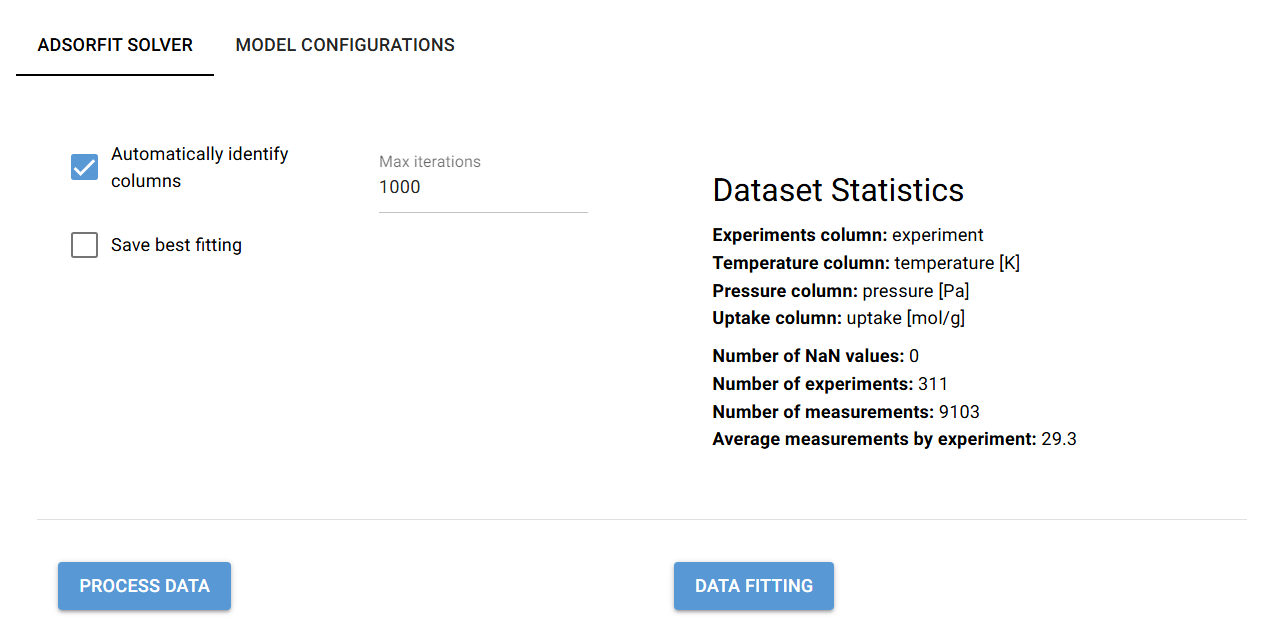
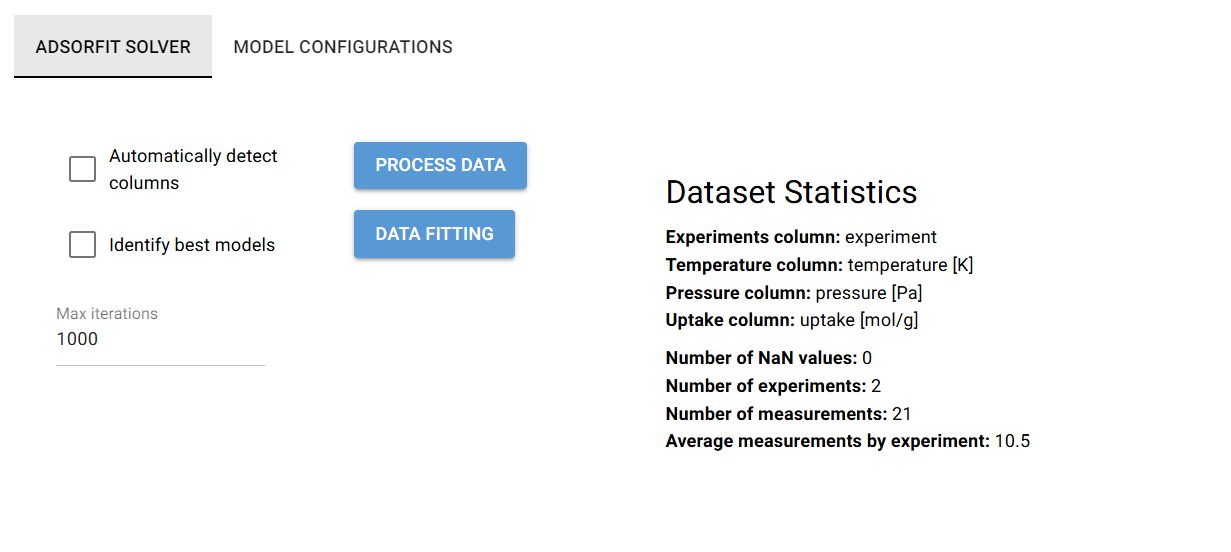
updated README, more compact solver tab

diff --git a/ADSORFIT/services/adsorption_model_fitting.py b/ADSORFIT/services/adsorption_model_fitting.py
@@ -32,25 +32,14 @@ with ui.tab_panels(tabs, value=tab_main) as panels:
     with ui.tab_panel(tab_main).classes('w-full justify-between'):
         with ui.row().classes('w-full no-wrap justify-between'):           
             with ui.column().classes('w-full p-4'):
-                identify_cols = ui.checkbox('Automatically detect columns')
-                best_models = ui.checkbox('Identify best models')                
+                identify_cols = ui.checkbox('Automatically detect columns') 
+                best_models = ui.checkbox('Identify best models')
+                max_iterations = ui.number("Max iterations", value=1000)               
+                      
             with ui.column().classes('w-full p-4'):
-                max_iterations = ui.number("Max iterations", value=1000)
-            with ui.column().classes('w-full p-4'):
-                stats = ui.markdown(content="Statistics will be displayed here.").style(
-                    'padding: 10px; width: 400px; text-align: left;')                           
-
-        ui.separator()
-
-        # [BUTTONS ROW]
-        #----------------------------------------------------------------------
-        # define two buttons to load and process the data and to start the data fitting
-        with ui.row().classes('w-full no-wrap justify-between'):
-            with ui.column().classes('w-full p-4'):                
                 ui.button(
                     'Process data', on_click=lambda : [processor.preprocess_dataset(identify_cols.value),
-                                                       stats.set_content(processor.stats)]) 
-            with ui.column().classes('w-full p-4'):     
+                                                       stats.set_content(processor.stats)])           
                 data_fitting_button = ui.button(
                     'Data fitting', on_click=lambda : [solver.start_data_fitting_thread(
                                                        processor.processed_data,
@@ -59,8 +48,11 @@ with ui.tab_panels(tabs, value=tab_main) as panels:
                                                        processor.uptake_col,
                                                        models_widgets.model_states,
                                                        max_iterations.value,
-                                                       best_models.value)])                
-
+                                                       best_models.value)])      
+            with ui.column().classes('w-full p-4'):
+                stats = ui.markdown(content="Statistics will be displayed here.").style(
+                    'padding: 10px; width: 400px; text-align: left;')  
+                       
         # [PROGRESS BAR]
         #----------------------------------------------------------------------
         with ui.row().classes('w-full no-wrap justify-between'):              

diff --git a/ADSORFIT/commons/constants.py b/ADSORFIT/commons/constants.py
@@ -1,10 +1,9 @@
-import json
 from os.path import join, abspath 
 
 # [PATHS]
 ###############################################################################
-ROOT_DIR = abspath(join(__file__, "../../.."))
-PROJECT_DIR = abspath(join(__file__, "../.."))
+ROOT_DIR = abspath(join(__file__, "././."))
+PROJECT_DIR = join(ROOT_DIR, 'ADSORFIT')
 DATA_PATH = join(PROJECT_DIR, 'resources')
 BEST_FIT_PATH = join(DATA_PATH, 'best fit')
 LOGS_PATH = join(PROJECT_DIR, 'resources', 'logs')
@@ -12,6 +11,4 @@ LOGS_PATH = join(PROJECT_DIR, 'resources', 'logs')
 # [FILENAMES]
 ###############################################################################
 DATASET_PATH = join(DATA_PATH, 'adsorption_data.csv') 
-VALIDATION_PATH = join(DATA_PATH, 'adsorption_model_fit.csv')
-
-
+RESULTS_PATH = join(DATA_PATH, 'adsorption_model_fit.csv')

diff --git a/ADSORFIT/commons/utils/datamaker/datasets.py b/ADSORFIT/commons/utils/datamaker/datasets.py
@@ -5,7 +5,7 @@ import pandas as pd
 from difflib import get_close_matches
 from nicegui import ui
 
-from ADSORFIT.commons.constants import VALIDATION_PATH, DATASET_PATH, BEST_FIT_PATH
+from ADSORFIT.commons.constants import DATASET_PATH, BEST_FIT_PATH
 from ADSORFIT.commons.logger import logger
 
 
@@ -17,8 +17,7 @@ class AdsorptionDataProcessing:
         self.dataset = pd.read_csv(DATASET_PATH, sep =';', encoding='utf-8')  
         self.processed_data = pd.DataFrame() 
         self.stats = None   
-        self.processing_done = False
-         
+        self.processing_done = False         
         self.experiment_col = 'experiment'
         self.temperature_col = 'temperature [K]'  
         self.pressure_col = 'pressure [Pa]' 

diff --git a/ADSORFIT/commons/utils/app/widgets.py b/ADSORFIT/commons/utils/app/widgets.py
@@ -2,8 +2,8 @@ from nicegui import ui
 import copy
 
 from ADSORFIT.commons.utils.app.threads import SolverThread
-from ADSORFIT.commons.constants import PROJECT_DIR, VALIDATION_PATH, DATASET_PATH, BEST_FIT_PATH
 from ADSORFIT.commons.logger import logger
+
 
 # Progress bar widget for tracking the progress of operations in the GUI
 ###############################################################################

diff --git a/ADSORFIT/commons/logger.py b/ADSORFIT/commons/logger.py
@@ -53,7 +53,6 @@ LOG_CONFIG =  {
     },    
 }
 
-
 # override logger configuration and load root logger
 ###############################################################################
 logging.config.dictConfig(LOG_CONFIG)

diff --git a/README.md b/README.md
@@ -1,10 +1,10 @@
 # ADSORFIT: Automated Adsorption Model Fitting
 
 ## 1. Project Overview
-ADSORFIT is a powerful tool designed to simplify and enhance adsorption modeling for researchers. It automates the fitting of theoretical adsorption models to experimental isotherm data, enabling accurate extraction of key adsorption parameters such as adsorption constants and saturation uptakes. The core functionality focuses on minimizing the Least Squares Sum (LSS) discrepancy between observed data and model-predicted uptakes. This ensures that the derived model parameters reliably represent the true adsorption behavior under the given experimental conditions. ADSORFIT features an intuitive, user-friendly interface built with NiceGUI, making advanced adsorption modeling accessible to users of all experience levels.
+ADSORFIT is a powerful yet simple tool designed to facilitate adsorption modeling for researchers. It automates experimental data fitting using theoretical adsorption models, enabling accurate extraction of adsorption constants and saturation uptakes from your adsorption isotherms. The core functionality revolves around minimizing the Least Squares Sum (LSS) discrepancy between observed data and model-predicted uptakes. This ensures that the derived model parameters reliably represent the true adsorption behavior under the given experimental conditions. To make things even easier, ADSORFIT features an intuitive, user-friendly interface built with NiceGUI, making it accessible to users of all experience levels.
 
 ## 2. Installation 
-The installation process on Windows has been designed for simplicity and ease of use. To begin, simply run *start_on_windows.bat.* On its first execution, the installation procedure will automatically start with minimal user input required. The script will check if either Anaconda or Miniconda is installed on your system. If neither is found, it will automatically download and install the latest Miniconda release from https://docs.anaconda.com/miniconda/. After setting up Anaconda/Miniconda, the installation script will proceed with the installation of all necessary Python dependencies. If you'd prefer to handle the installation process separately, you can run the standalone installer by executing *setup/install_on_windows.bat*.  
+The installation process on Windows has been designed to be fully automated. To begin, simply run *start_on_windows.bat.* On its first execution, the installation procedure will execute with minimal user input required. The script will check if either Anaconda or Miniconda is installed and can be accessed from your system path. If neither is found, it will automatically download and install the latest Miniconda release from https://docs.anaconda.com/miniconda/. Following this step, the script will proceed with the installation of all necessary Python dependencies. Should you prefer to handle the installation process separately, you can run the standalone installer by running *setup/install_on_windows.bat*.  
 
 **Important:** After installation, if the project folder is moved or its path is changed, the application will no longer function correctly. To fix this, you can either:
 
@@ -16,37 +16,39 @@ The installation process on Windows has been designed for simplicity and ease of
     `pip install -e . --use-pep517` 
 
 ## 3. How to use
-On Windows, run *start_on_windows.bat* to launch the main navigation menu and browse through the various options. Alternatively, you can launch the main app file running *python ADSORFIT/commons/main.py*. Please note that some antivirus software, such as Avast, may flag or quarantine python.exe when called by the .bat file. If you encounter unusual behavior, consider adding an exception for your Anaconda or Miniconda environments in your antivirus settings.
-
-**Environmental variables** are stored in *resources/variables/.env*. For security reasons, this file is typically not uploaded to GitHub. Instead, you must create this file manually by copying the template from *resources/templates/.env* and placing it in the *resources/variables* directory.
-
-**NICEGUI_PORT** – Specifies the port on which the NiceGUI application runs. The default is 8080
-
-**NICEGUI_HOST** – Defines the host address for the NiceGUI server. (0.0.0.0 allows the application to be accessible from any network interface).
+On Windows, run *start_on_windows.bat* to launch the main navigation menu and browse through the various options. Please note that some antivirus software, such as Avast, may flag or quarantine python.exe when called by the .bat file. If you encounter unusual behavior, consider adding an exception for your Anaconda or Miniconda environments in your antivirus settings.
 
 ### 3.1 Navigation menu
 
-**1) Run ADSORFIT UI:** Launch ADSORFIT to access the main user interface, which is organized into two distinct tabs. The first tab allows users to perform essential computational tasks, such as fitting adsorption models to isotherm data and preprocessing datasets. The second tab provides an intuitive interface for reviewing and adjusting critical adsorption model parameters. Users can specify the maximum number of iterations for data fitting and choose whether to automatically infer column content based on their names. Additionally, users can opt to save multiple CSV files, where the best model is selected and releated results are displayed. Below are snapshots illustrating the layout and functionality of main UI:
+**1) Run ADSORFIT UI:** Launch ADSORFIT to access the main user interface, which is organized into two distinct tabs. The first tab allows users to perform essential computational tasks, such as fitting adsorption models to isotherm data and preprocessing datasets. The second tab provides an intuitive interface for reviewing and adjusting critical adsorption model parameters. Users can specify the maximum number of iterations for data fitting and choose whether to automatically infer columns content based on their header. Additionally, it is possible to save multiple CSV files, each of them reporting the best results for a given model. 
 
 ![Solver UI snapshot](ADSORFIT/commons/assets/solver_UI.png)
 
 ![Models UI snapshot](ADSORFIT/commons/assets/models_UI.png)
 
-**2) Setup and Maintenance:** execute optional commands such as *Install project into environment* to run the developer model project installation, *update project* to pull the last updates from github, and *remove logs* to remove all logs saved in *resources/logs*. 
+**2) Setup and Maintenance:** execute optional commands such as *Install project into environment* to reinstall the project within your environment, *update project* to pull the last updates from github, and *remove logs* to remove all logs saved in *resources/logs*. 
 
 **3) Exit:** close the program immediately 
 
 ### 3.2 Resources
-This folder stores both the source data and the results. The adsorption data for fitting must be provided as a CSV file named *adsorption_data.csv*. If automatic column name detection is disabled, the file must include the following columns with these exact names and units: *experiment*, *temperature [K]*, *pressure [Pa]*, and *uptake [mol/g]*. A template of the expected CSV format is available at *resources/templates/adsorption_data.csv*. If the option to automatically detect columns is selected, ADSORFIT will identify target columns based on string pattern matching, and anything even partially matching these keywords will identify the corresponding column:
+This is where you can find the source adsorption data and the fitting results. The experimental adsorption isotherm data should be loaded in this folder as a CSV file named *adsorption_data.csv*. If automatic column name detection is disabled, the file must include the following columns with these exact names and units: *experiment*, *temperature [K]*, *pressure [Pa]*, and *uptake [mol/g]*. On the other hand, if the option to automatically detect columns is selected, ADSORFIT will identify target columns based on keywords and string pattern matching.
+
+A template of the expected CSV format is available at *resources/templates/adsorption_data.csv*. 
 
 - **best fit:** collects the best fitting results obtained from different models, if the option is selected during data fitting.
 
-- **logs:** the application logs are saved within this folder
+- **logs:** log files are saved here
 
-- **templates:** stores the template files for reference
+- **templates:** reference template files can be found here
 
 ### 4. Configurations
-Each model can be configured in the **Model Configuration** tab where you can set an initial guess value for the adsorption model parameters,as well as boundaries for the minimun and maximum expected values.
+Each adsorption model can be configured in the **Model Configuration** tab where you can set an initial guess value for the adsorption model parameters,as well as boundaries for the minimun and maximum expected values.
+
+**Environmental variables** are stored in *setup/variables/.env*. For security reasons, this file is typically not uploaded to GitHub. Instead, you must create this file manually by copying the template from *resources/templates/.env* and placing it in the *setup/variables* directory.
+
+**NICEGUI_PORT** – Specifies the port on which the NiceGUI application runs. The default is 8080
+
+**NICEGUI_HOST** – Defines the host address for the NiceGUI server. (0.0.0.0 allows the application to be accessible from any network interface).
 
 ## 5. License
 This project is licensed under the terms of the MIT license. See the LICENSE file for details.
